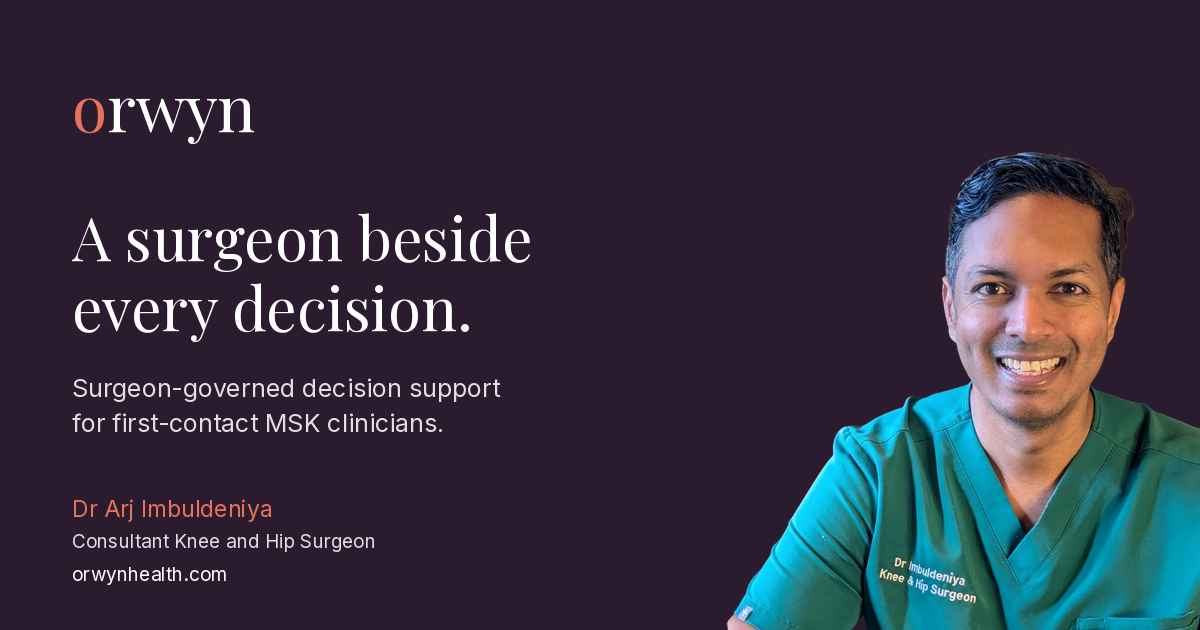
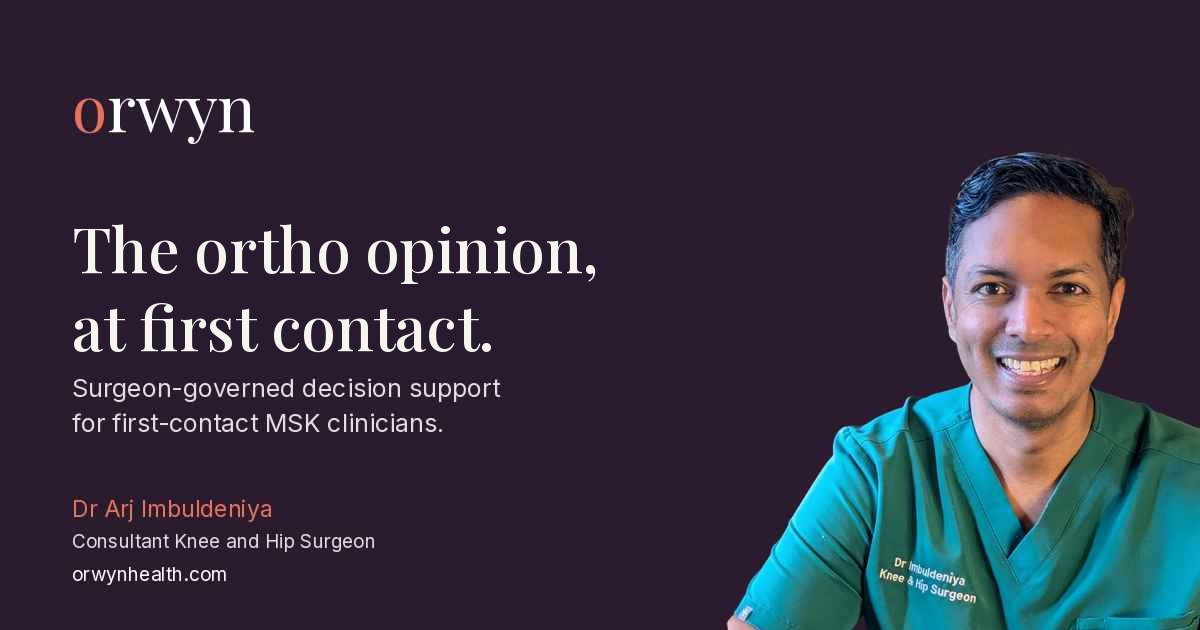
Reframe copy for clinician and commissioner audience

Changed region(s): [[0.0617, 0.3317, 0.4933, 0.573]]

diff --git a/index.html b/index.html
@@ -18,7 +18,7 @@
 <meta property="og:image" content="https://orwynhealth.com/social.jpg">
 <meta property="og:image:width" content="1200">
 <meta property="og:image:height" content="630">
-<meta property="og:image:alt" content="Orwyn. A surgeon beside every decision. Dr Arj Imbuldeniya, Consultant Knee and Hip Surgeon.">
+<meta property="og:image:alt" content="Orwyn. The ortho opinion, at first contact. Dr Arj Imbuldeniya, Consultant Knee and Hip Surgeon.">
 <meta name="twitter:image" content="https://orwynhealth.com/social.jpg">
 <meta property="og:locale" content="en_GB">
 <meta name="twitter:card" content="summary_large_image">
@@ -142,7 +142,7 @@ footer.site .mark{font-size:22px;display:block;margin-bottom:12px;color:#fff}
 
 <section class="hero">
   <div class="wrap">
-    <h1>A surgeon beside every decision.</h1>
+    <h1>Surgeon-governed decision support for first-contact MSK clinicians.</h1>
     <p class="lede">Orwyn is decision support for the clinicians who see musculoskeletal patients first. It brings a consultant knee and hip surgeon's routing criteria into the room, written down and explainable, at the moment the referral decision is made.</p>
     <p class="thesis">To surgery when it's needed, to a real plan when it's not.</p>
     <a class="btn ghost" href="#what">What it does</a>
@@ -157,12 +157,13 @@ footer.site .mark{font-size:22px;display:block;margin-bottom:12px;color:#fff}
     <div class="kicker">The problem</div>
     <h2 class="section">Musculoskeletal care goes wrong in both directions</h2>
     <p class="lead">Some patients are sent for a surgical opinion they do not need, and wait months to be told so. Others are managed for a year with a problem that needed an operation. Both happen for the same reason: the person seeing the patient first has no way to reach the judgement of the person at the end of the pathway.</p>
-    <p class="lead">Musculoskeletal means the joints, muscles, bones and soft tissues. First-contact practitioners are the physiotherapists and clinicians who see these patients before anyone else, usually in general practice or a community service. They are experienced and they are not the problem. What they do not have is a surgeon in the room.</p>
+    <p class="lead">Musculoskeletal means the joints, muscles, bones and soft tissues. First-contact practitioners are the physiotherapists and clinicians who see these patients before anyone else, usually in general practice or a community service. They are experienced and they are not the problem. The problem is that the system gives them no way to reach a surgical opinion at the moment the decision is actually made.</p>
   </div>
 
   <div class="sect">
     <div class="kicker">What Orwyn is</div>
     <h2 class="section">A surgeon's criteria, written down and shown</h2>
+    <p class="lead">Most patients do not need it. An experienced clinician is certain about most of the people they see, and existing triage stays exactly where it is. Orwyn is for the referral decisions where the surgical question is genuinely in play, and for making the reasoning visible when it is.</p>
     <div class="three">
       <div class="card">
         <h3>It is used by the clinician</h3>
@@ -190,7 +191,7 @@ footer.site .mark{font-size:22px;display:block;margin-bottom:12px;color:#fff}
       </div>
       <div class="card">
         <h3>Built for the standard it will be held to</h3>
-        <p>Orwyn is being built to the engineering and safety standards expected of regulated clinical software, with a clinical safety case and a named clinical safety officer, and the intention to certify.</p>
+        <p>Orwyn is being built to the engineering and safety standards expected of regulated clinical software, with a clinical safety case that will be reviewed by an independent clinical safety officer before any deployment, and the intention to certify.</p>
         <p>Knee first, then hip. One joint done properly before the next.</p>
       </div>
     </div>
@@ -214,6 +215,7 @@ footer.site .mark{font-size:22px;display:block;margin-bottom:12px;color:#fff}
     <div class="kicker">Who it is for</div>
     <h2 class="section">Working with the NHS</h2>
     <p class="lead">Orwyn is being developed with NHS musculoskeletal clinicians, and is designed for NHS trusts and the services that commission musculoskeletal care.</p>
+    <p class="lead">For the services that pay for musculoskeletal care the point is practical: fewer referrals that add nothing, earlier surgical review for the patients who need it, and a recorded reason for every routing decision.</p>
     <p class="lead">If you run or commission a musculoskeletal service, or you see these patients first and want to say what would actually help, we would like to hear from you.</p>
   </div>
 
